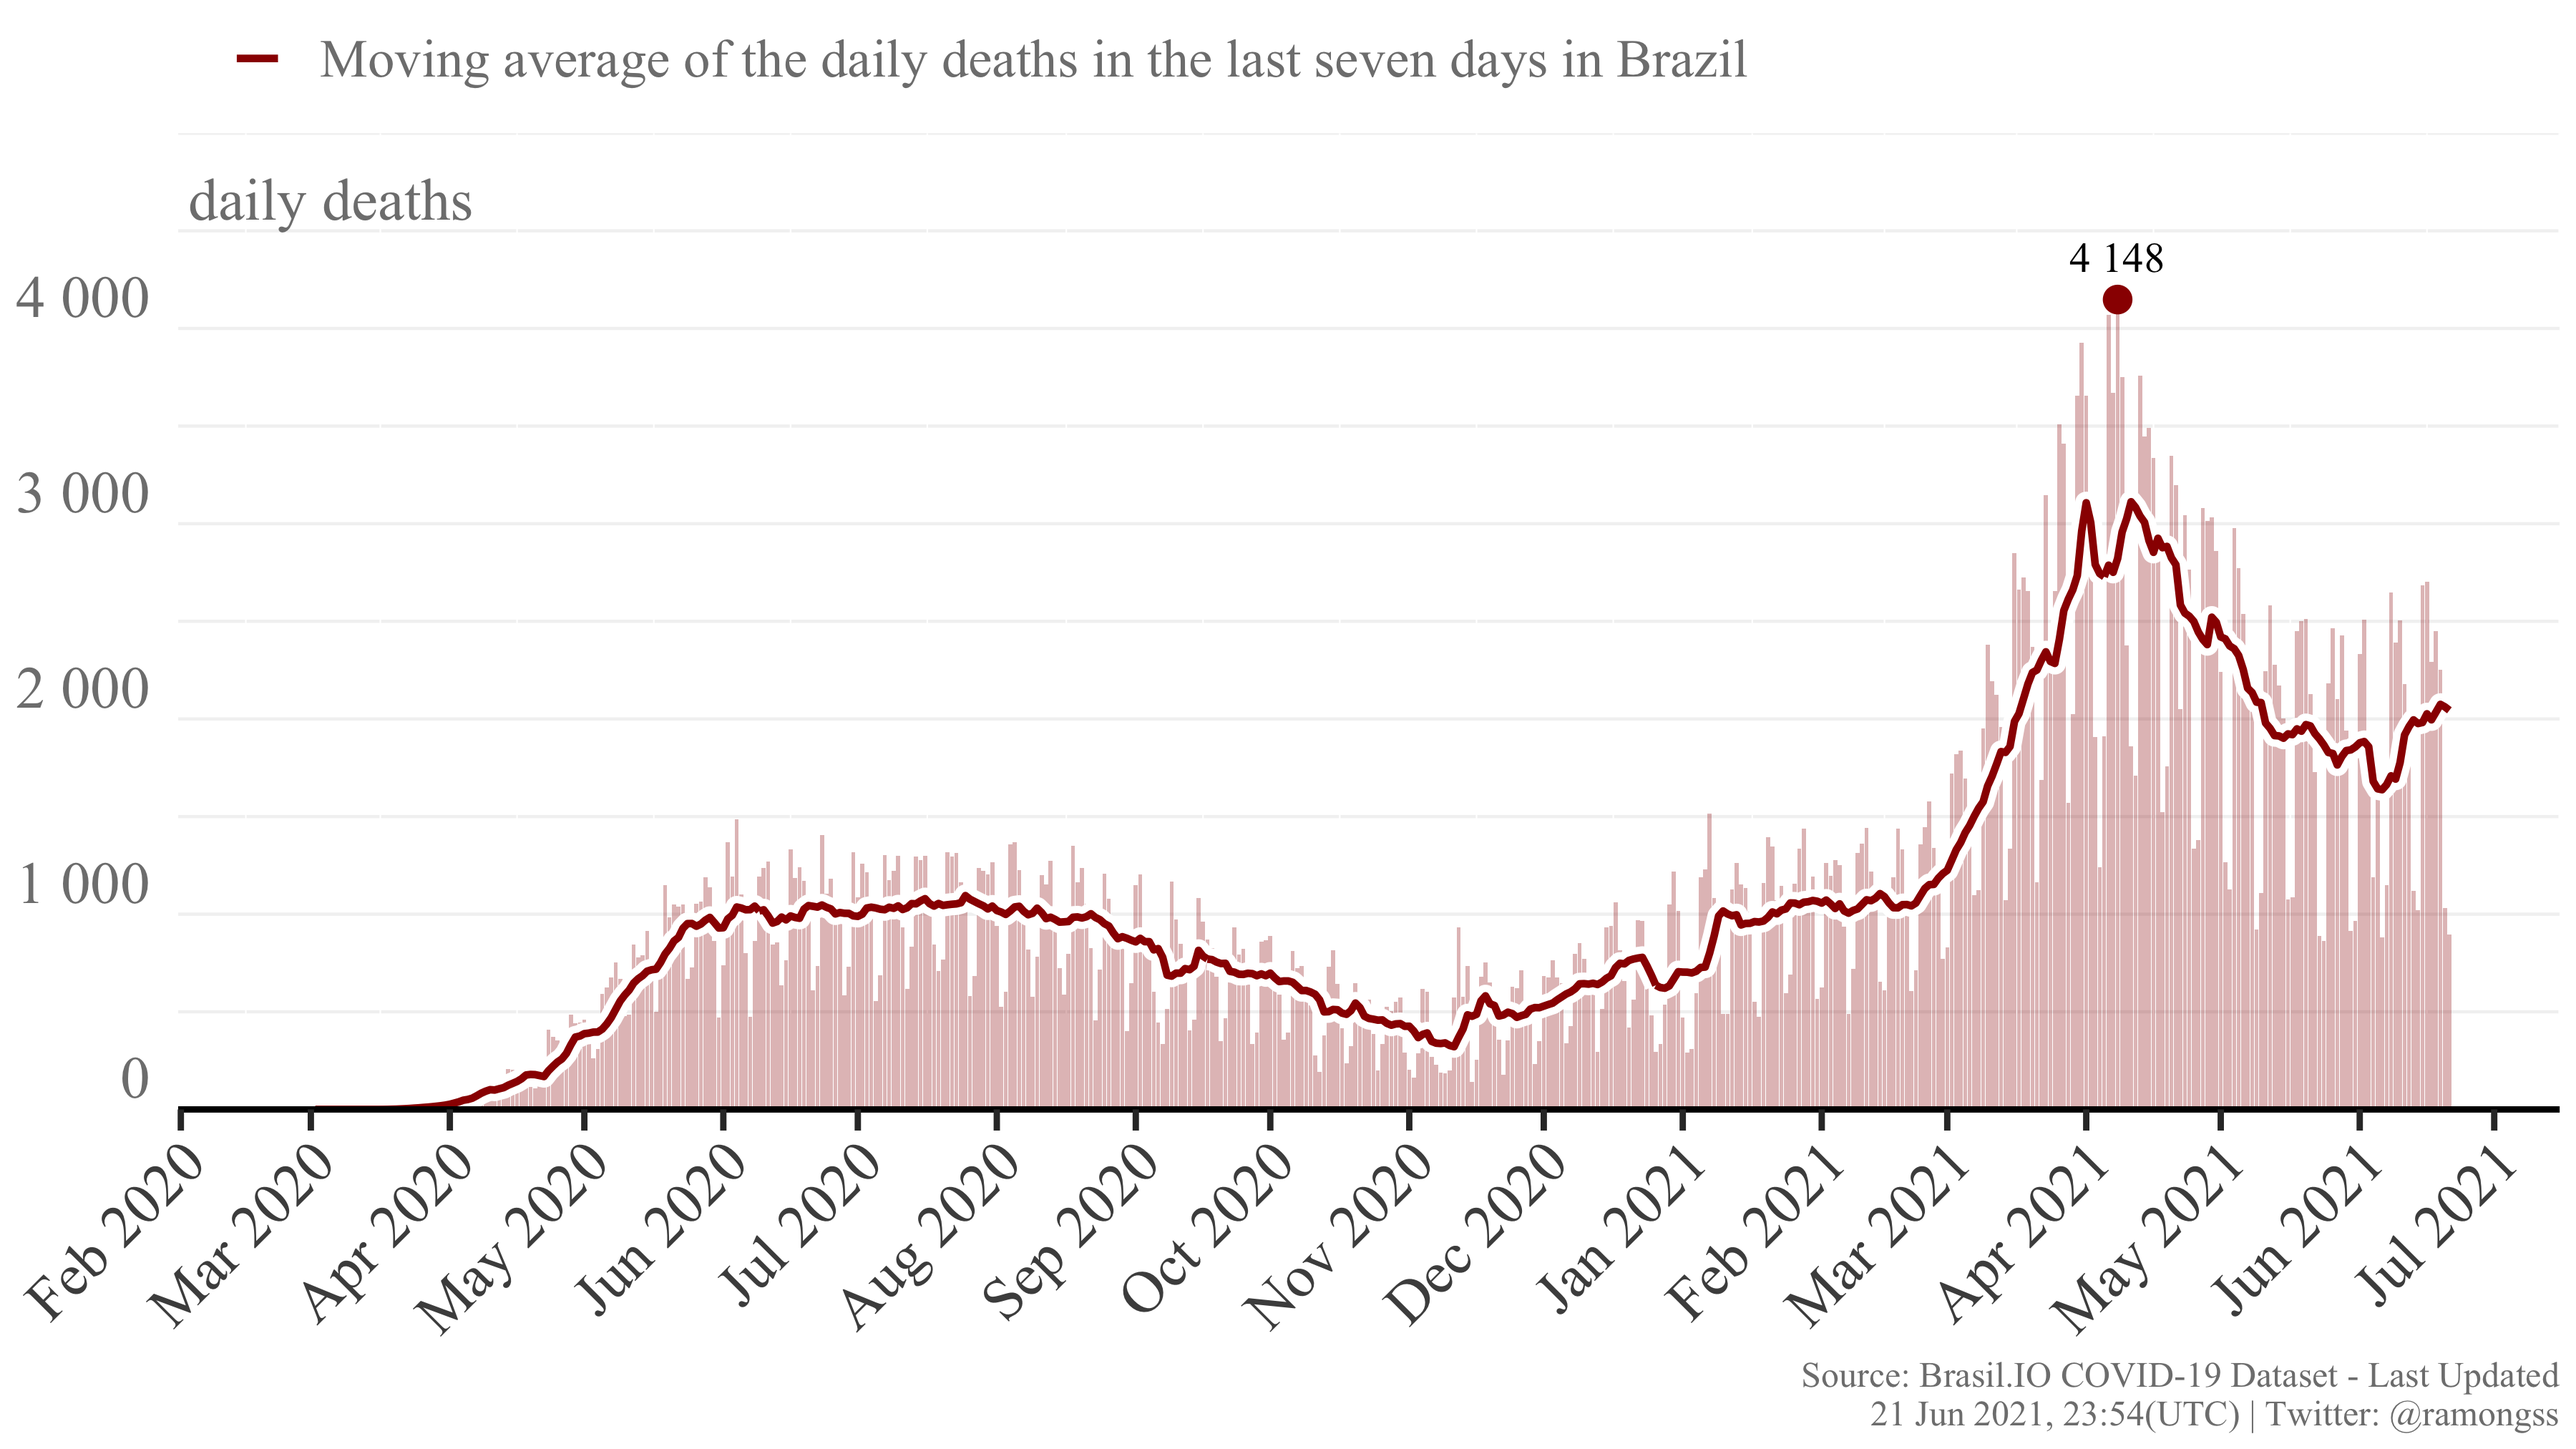
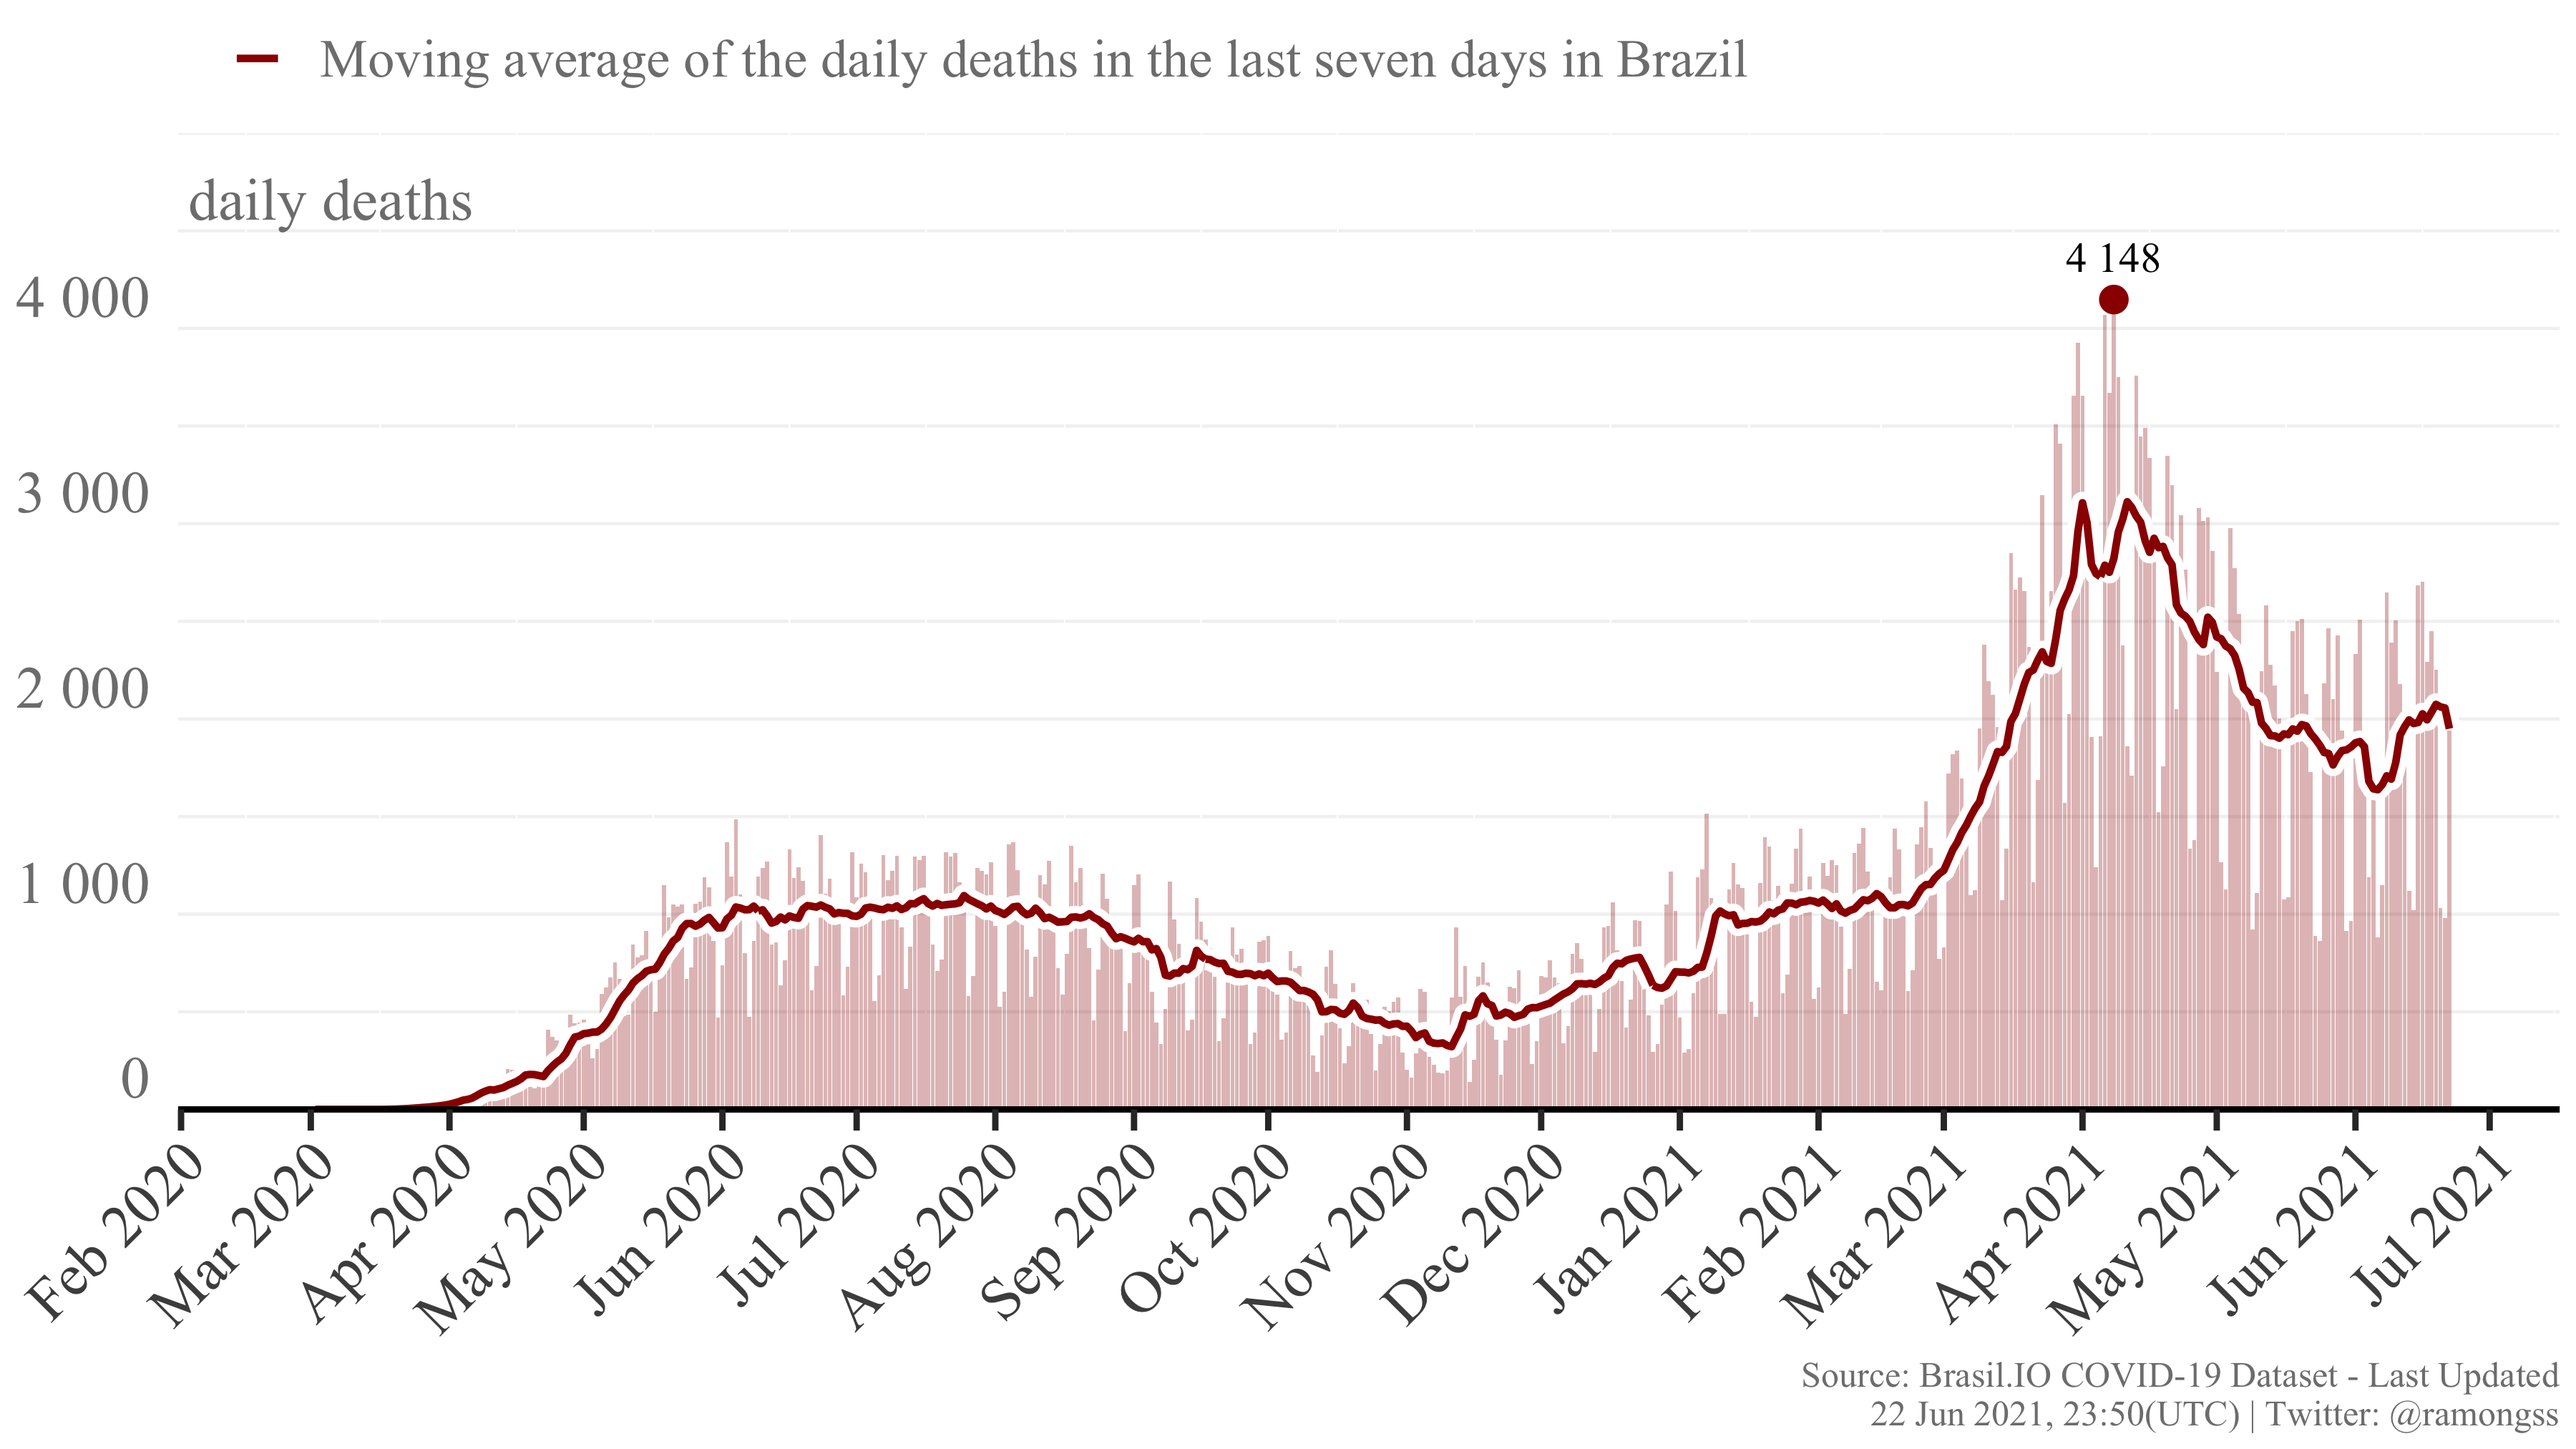
Re-build README.Rmd

diff --git a/README.md b/README.md
@@ -27,8 +27,8 @@ download_brasilio_table <- function(dataset = "covid19", table_name){
 
 ## COVID-19 Confirmed cases
 
-Currently, Brazil has a total of **17,976,510** confirmed cases at **21
-Jun, 2021**, with **42,756** new confirmed cases. The daily maximum
+Currently, Brazil has a total of **18,063,163** confirmed cases at **22
+Jun, 2021**, with **83,999** new confirmed cases. The daily maximum
 incidence was **98,261** confirmed cases at **25 Mar, 2021**. Here
 follows the Figure showing the confirmed case incidence as the bars, and
 the line as the moving average of the last 7 days.
@@ -37,8 +37,8 @@ the line as the moving average of the last 7 days.
 
 ## COVID-19 Deaths
 
-Currently, Brazil has a total of **503,035** deaths at **21 Jun, 2021**,
-with **896** new deaths. The daily maximum deaths incidence was
+Currently, Brazil has a total of **505,061** deaths at **22 Jun, 2021**,
+with **1,941** new deaths. The daily maximum deaths incidence was
 **4,148** deaths at **08 Apr, 2021**. Here follows the Figure showing
 the deaths incidence as the bars, and the line as the moving average of
 the last 7 days.
@@ -49,4 +49,4 @@ the last 7 days.
 
 This page is daily updated automatically using Github Actions.
 
-*Last update: 21 Jun 2021, 23:54 (UTC).*
+*Last update: 22 Jun 2021, 23:50 (UTC).*
